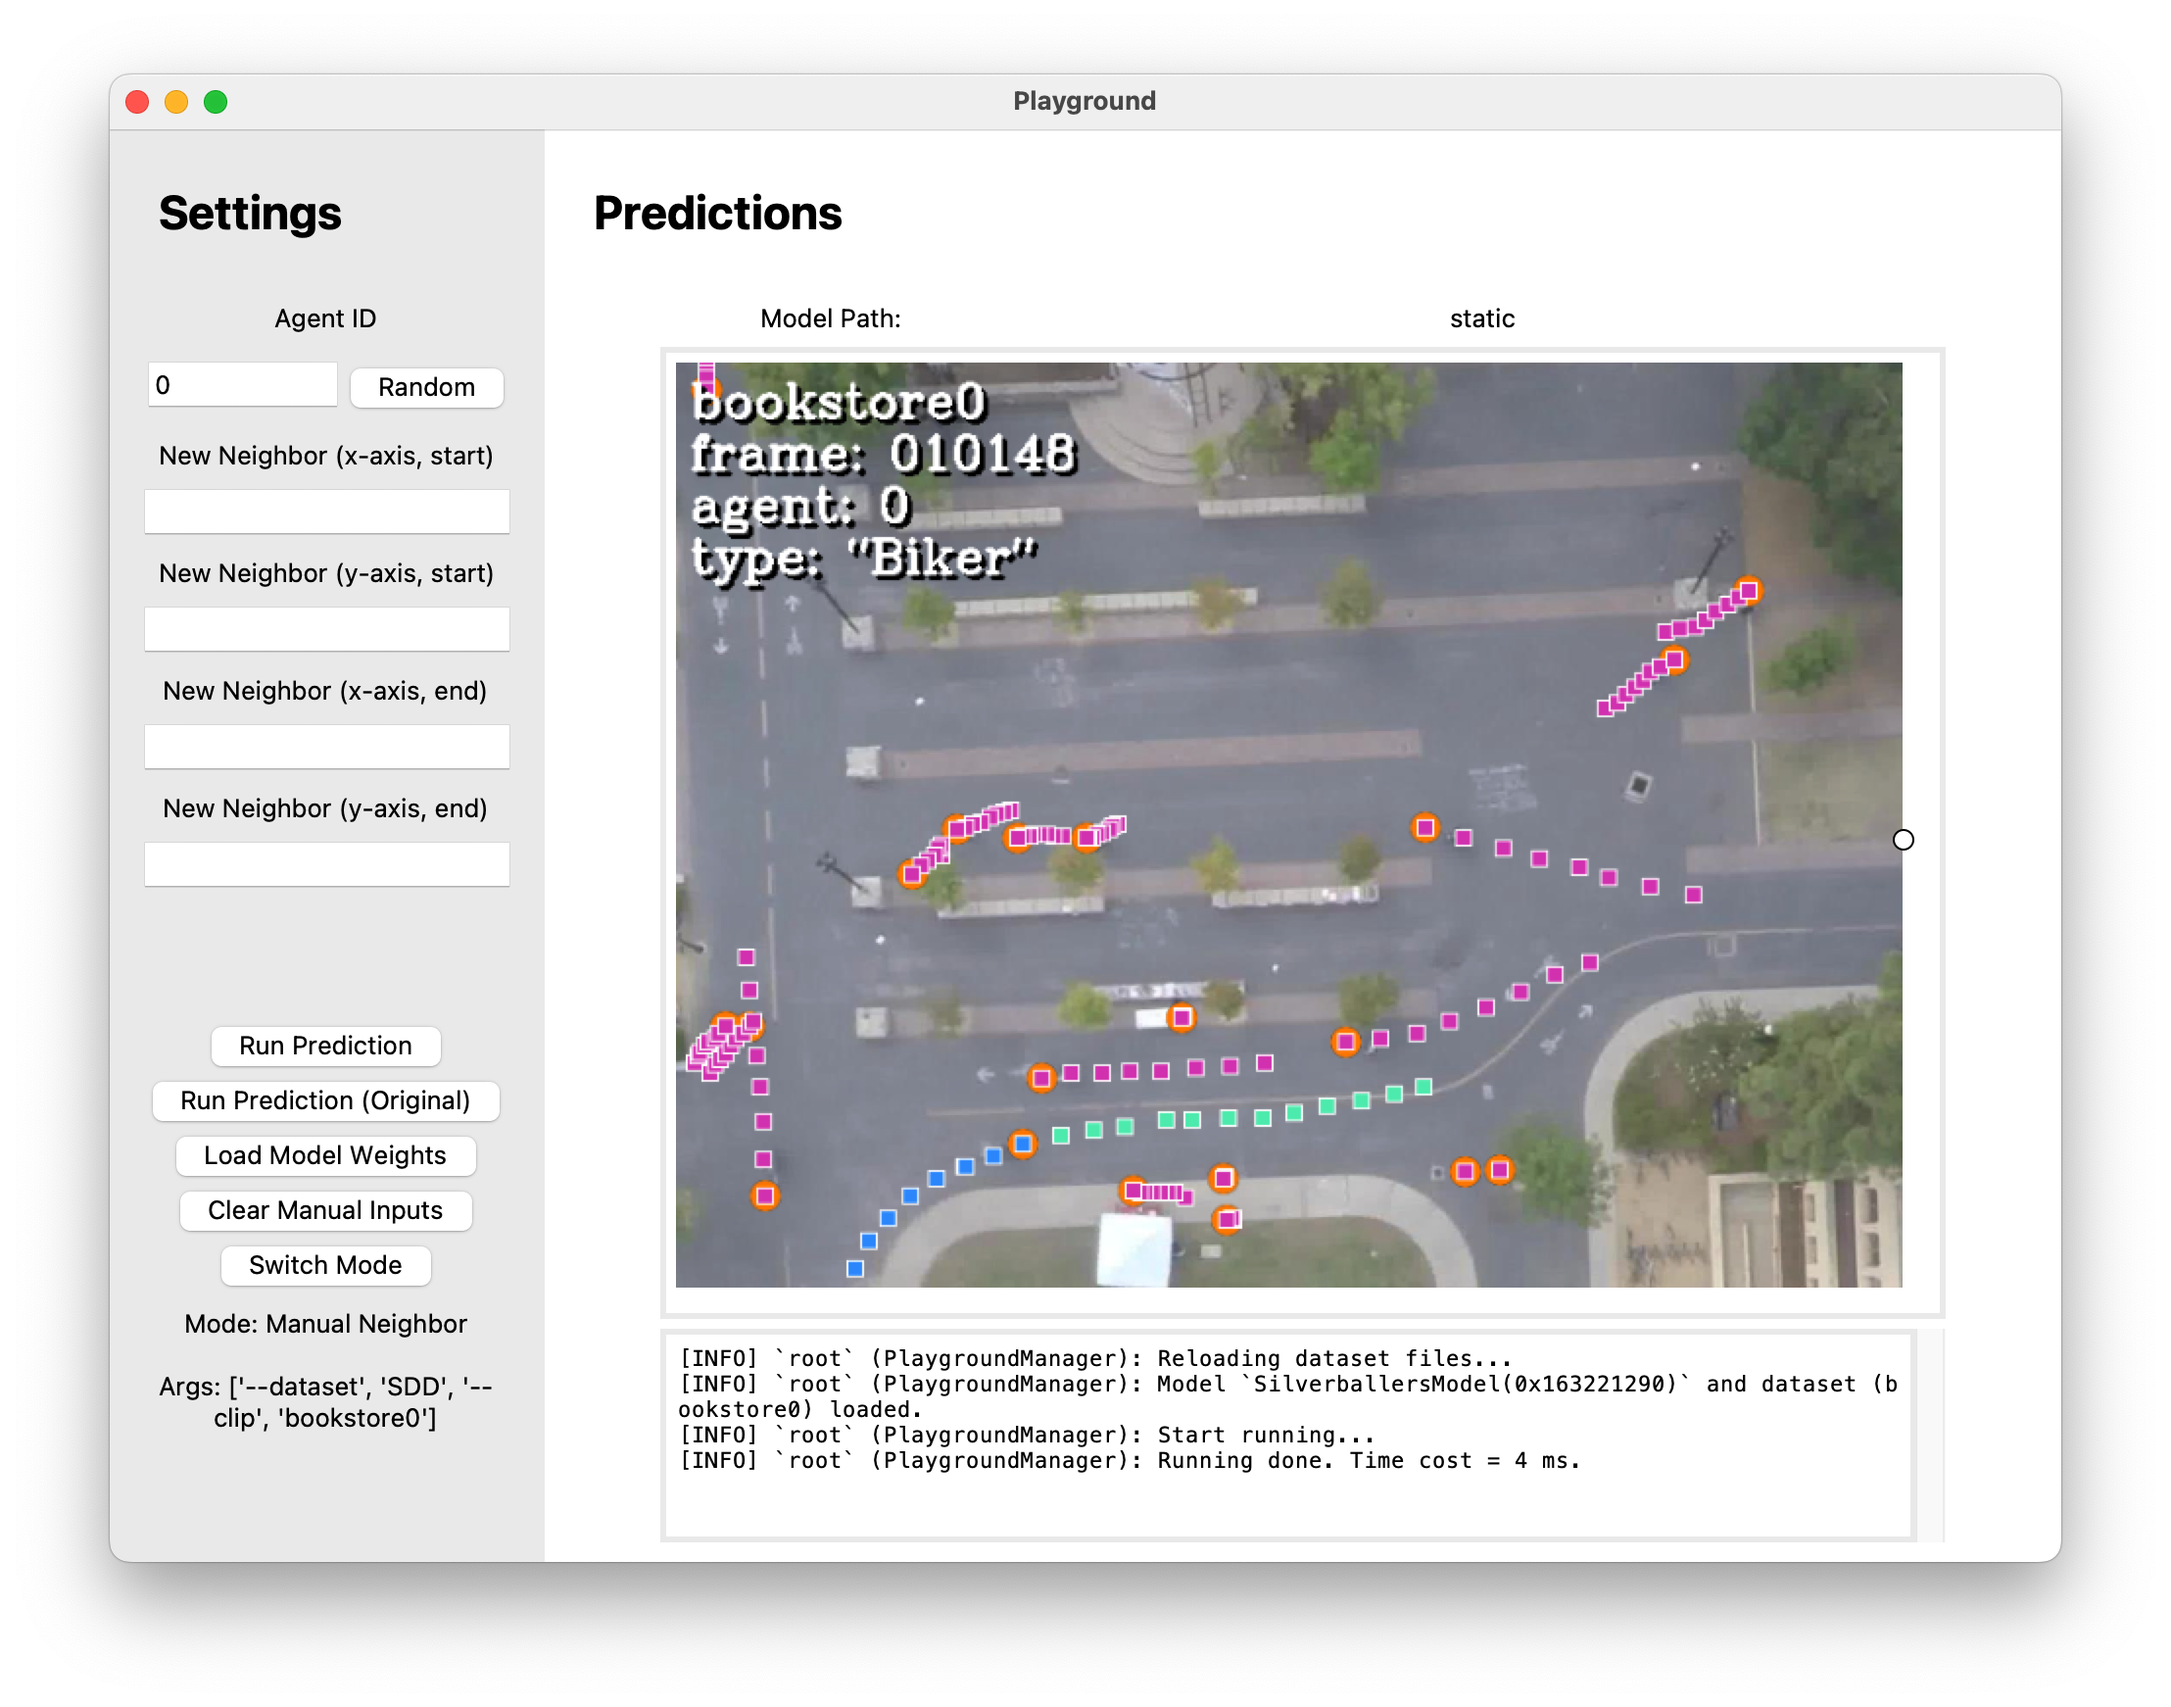
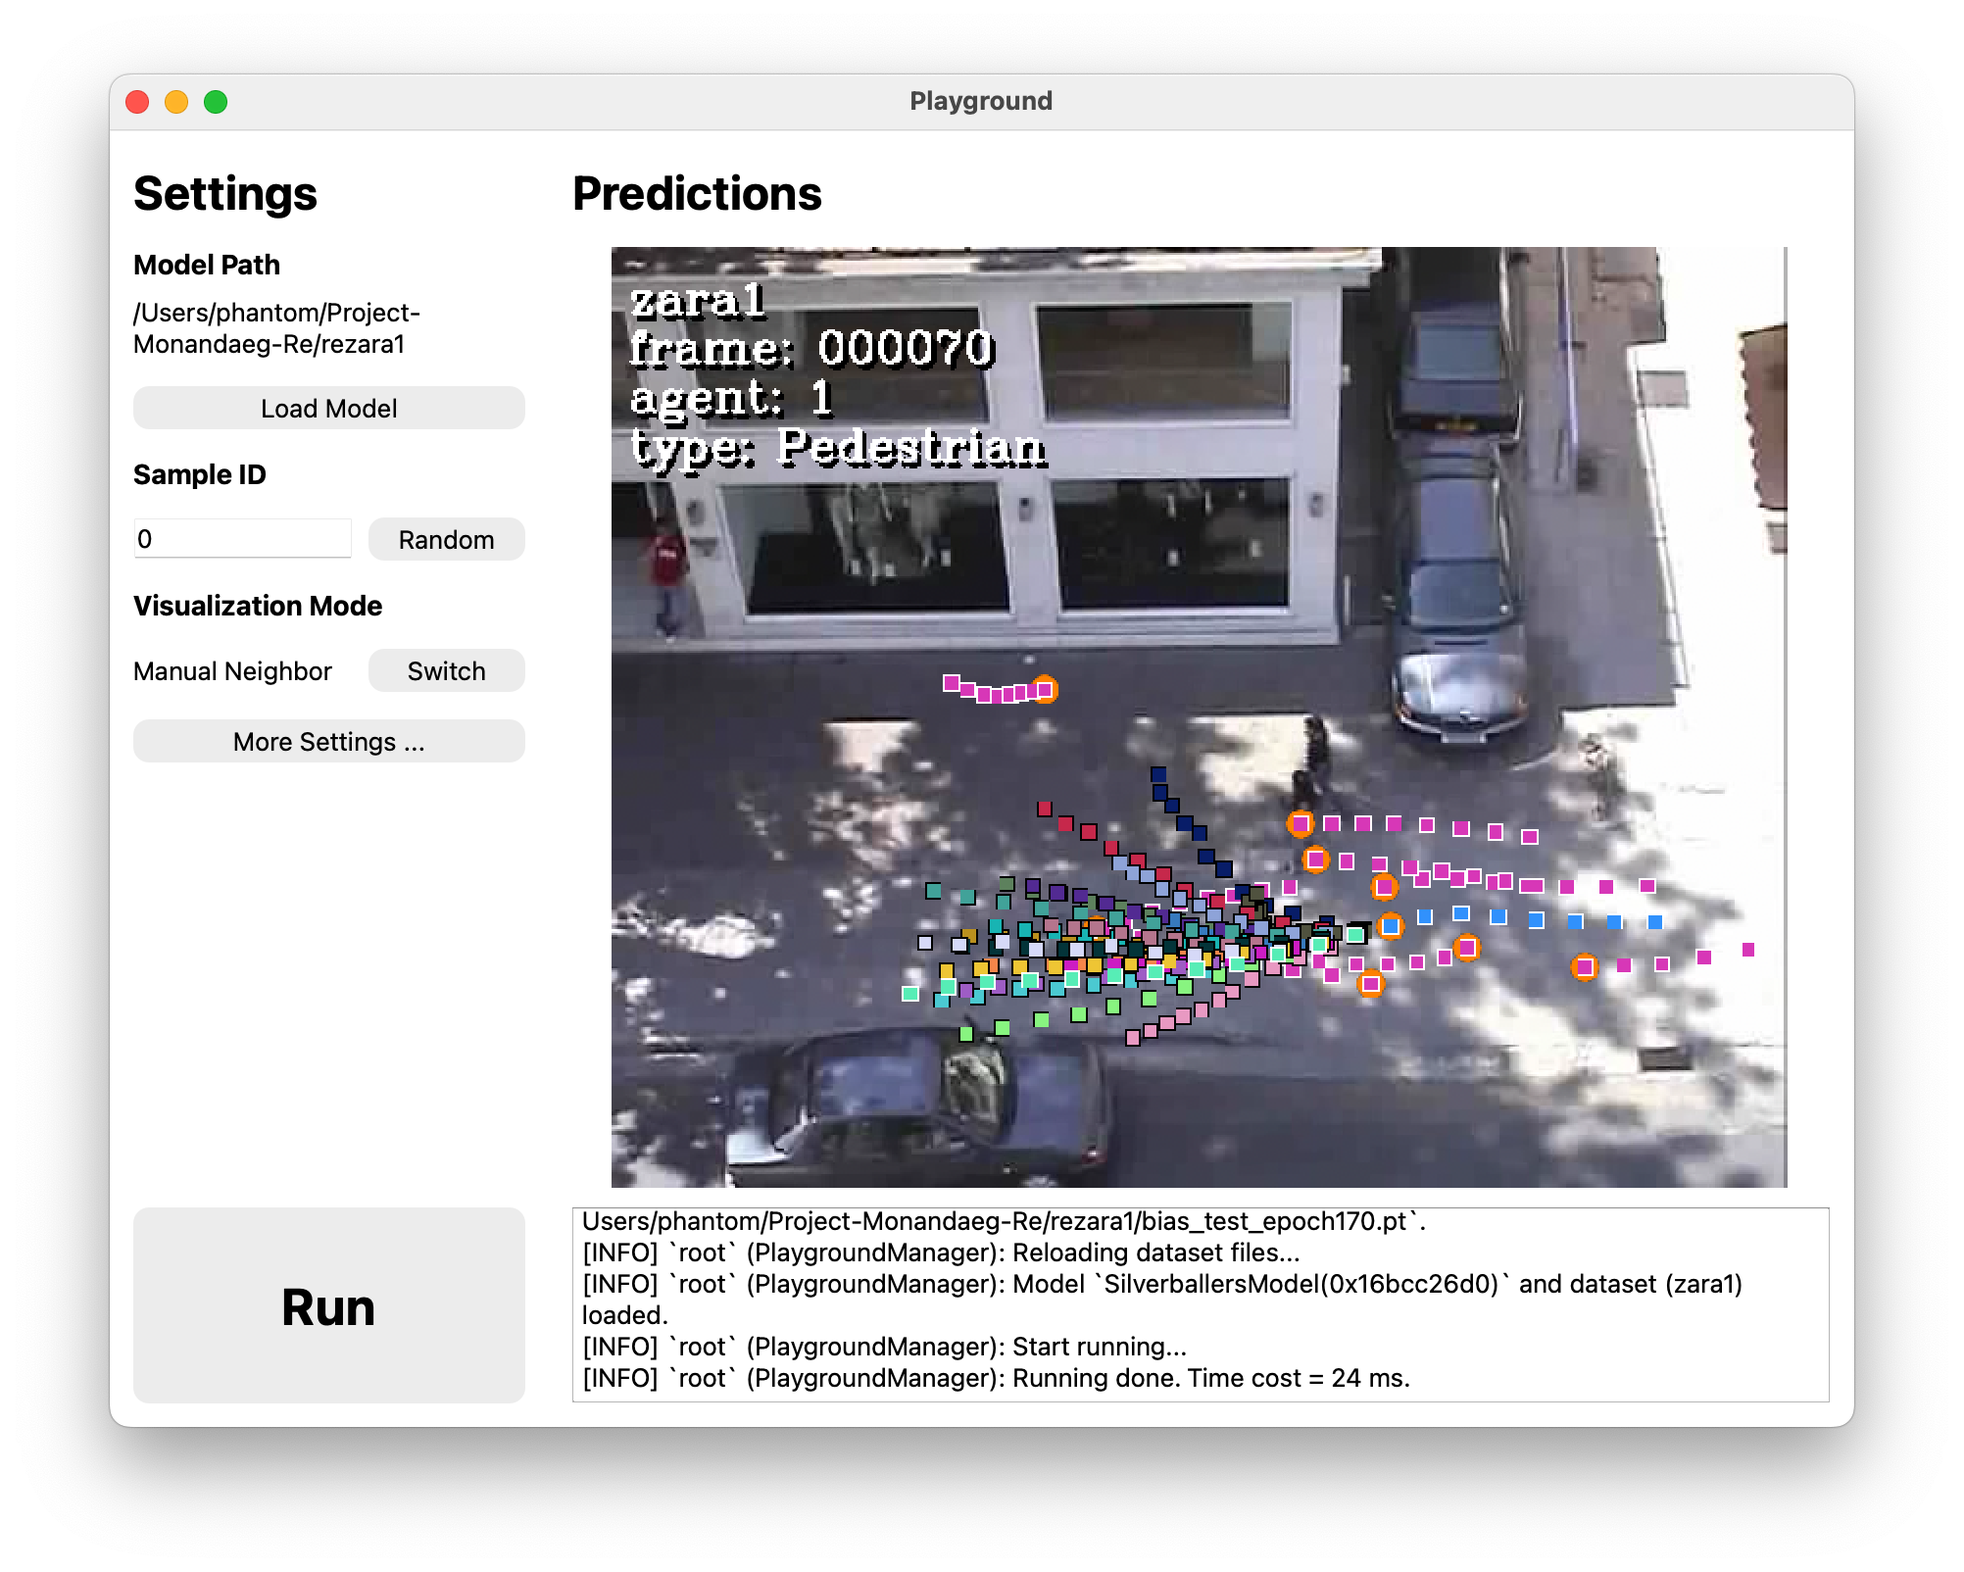
Update qpid and playground

diff --git a/main.py b/main.py
@@ -2,7 +2,7 @@
 @Author: Conghao Wong
 @Date: 2022-06-20 15:28:14
 @LastEditors: Conghao Wong
-@LastEditTime: 2024-11-19 20:33:02
+@LastEditTime: 2025-02-17 09:30:12
 @Description: file content
 @Github: https://github.com/cocoon2wong
 @Copyright 2022 Conghao Wong, All Rights Reserved.
@@ -10,31 +10,8 @@
 
 import sys
 
-import torch
-
 import qpid
 import resonance
 
-
-def main(args: list[str], run_train_or_test=True):
-    min_args = qpid.args.Args(args, is_temporary=True)
-
-    if (h := min_args.help) != 'null':
-        qpid.print_help_info('all_args' if h == 'True' else h)
-        exit()
-
-    t = qpid.get_structure(min_args.model)(args)
-
-    if run_train_or_test:
-        t.train_or_test()
-
-    # It is used to debug
-    if t.args.verbose:
-        t.print_info_all()
-
-    return t
-
-
 if __name__ == '__main__':
-    torch.autograd.set_detect_anomaly(True)
-    main(sys.argv)
+    qpid.entrance(sys.argv)

diff --git a/README.md b/README.md
@@ -2,7 +2,7 @@
  * @Author: Conghao Wong
  * @Date: 2024-11-22 15:22:32
  * @LastEditors: Conghao Wong
- * @LastEditTime: 2024-12-06 16:26:10
+ * @LastEditTime: 2025-02-17 09:34:31
  * @Github: https://cocoon2wong.github.io
  * Copyright 2024 Conghao Wong, All Rights Reserved.
 -->
@@ -157,29 +157,42 @@ tensorboard --logdir ./logs
 
 ## Visualization & Playground
 
-You can run the following command to visualize model predictions and learn how the proposed `Re` works to handle social interactions in an interactive way by adding any manual neighbors.
-Most of the visualizations shown in the paper are also drawn through this demo program.
-Run the following command to start:
+We have build a simple user interface to validate the qualitative trajectory prediction performance of our proposed `Re` models.
+You can use it to visualize model predictions and learn how the proposed `Re` works to handle social interactions in an interactive way by adding any manual neighbors at any positions in the scene.
+
+{: .box-warning}
+**WARNING**: 
+Visualizations may need dataset videos. For copyright reasons and size limitations, we do not provide them in our repo. Instead, a static image will be displayed if you have no videos put into the corresponding path.
+
+### Visualization Requirements
+
+This playground interface is implemented with `PyQt6`.
+Install this package in your python environment to start:
+
+```bash
+pip install pyqt6
+```
+
+### Open a Playground
+
+Run the following command to open a playground:
 
 ```bash
 python playground/main.py
 ```
 
-The default video is `zara1`, and you can change to different scenes by addting args `--dataset` and `--clip`.
-Please refer to section *Args Used* to see more related args and usages.
-For example, you can open a playground in the `bookstore0` scene in `SDD` dataset by
-
-```bash
-python playground/main.py --dataset SDD --clip bookstore0
-```
-
 ![Playground](figs/playground.png)
 
-Then, click the left `Load Model Weights` to load a pre-trained weights.
-For example, select the `./weights/rezara1` folder (not to open it!), then click `choose` to load it.
-You can view some of the visualized model predictions by clicking `Random` and `Run Prediction` as needed.
+### Load Models and Datasets
 
-\* Playground may need dataset videos. For copyright reasons and size limitations, we do not provide them in our repo. Instead, a static image will be displayed if you have no videos put into the corresponding path.
+You can load a supported `Rev` model or one of its variations by clicking the `Load Model` button.
+By clicking the `Run` button, you can see how the loaded model performs on the given sample.
+You can also load different datasets (video clips) by clicking the `More Settings ...` button.
+
+### Add Manual Neighbors
+
+You can also directly click the visualized figure to add a new neighbor to the scene.
+Through this neighbor that wasn't supposed to exist in the prediction scene, you can verify how models handle *social interactions* qualitatively.
 
 ## Contact us
 
